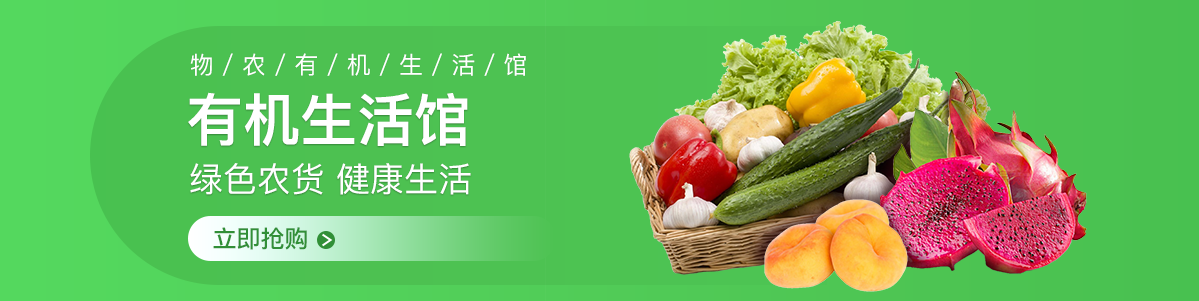
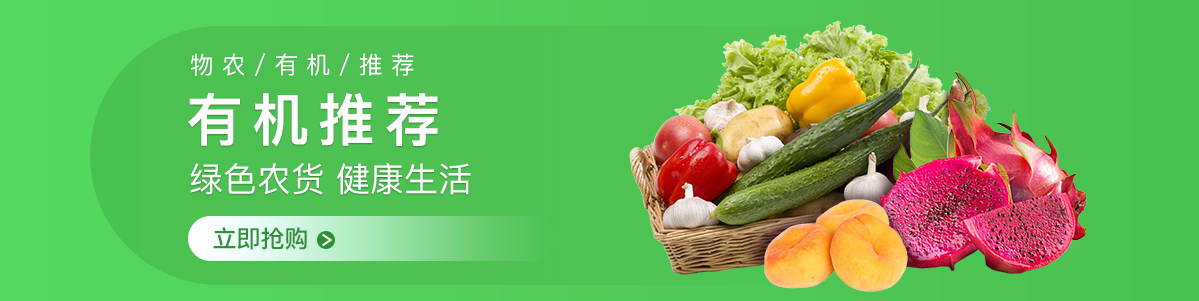
物农官网

Changed region(s): [[0.1852, 0.299, 0.4012, 0.5083], [0.1852, 0.1794, 0.4629, 0.2691]]

diff --git a/base.html b/base.html
@@ -55,10 +55,11 @@
 
         <div class="content">
             <div class="content-header">
-                <p>物农小目标（2019-2020）</p>
-                <p>全国各地，配套种植养殖基地超过<span>10000</span>亩</p>
+                <!-- <p>物农未来目标（2019-2020）</p> -->
+                <p></p>
+                <p>2019年,物农网在全国各地配套种植养殖基地超过<span>20000</span>亩</p>
 
-                <p>(已有<span>1000+</span>亩)</p>
+                <!-- <p>(已有<span>1000+</span>亩)</p> -->
             </div>
 
             <div class="content-con">
@@ -66,25 +67,34 @@
                     <img src="img/8_4.png" alt="">
                 </div>
 
+
                 <div class="content-con-con">
                     <div class="content-con-con-item">
                         <img src="img/8_5.png" alt="">
-                    </div>
-                    <div class="content-con-con-item">
-                        <img src="img/8_6.png" alt="">
-                    </div>
-                    <div class="content-con-con-item">
-                        <img src="img/8_7.png" alt="">
-                    </div>
-                    <div class="content-con-con-item">
-                        <img src="img/8_8.png" alt="">
+                        <p>物农认种</p>
+                        <p>火山岩大米种植基地</p>
                     </div>
 
                     <div class="content-con-con-item">
-                        <img src="img/8_10.png" alt="">
+                        <img src="img/8_11.png" alt="">
+                        <p>物农认种</p>
+                        <p>洋县黑米基地</p>
                     </div>
                     <div class="content-con-con-item">
-                        <img src="img/8_11.png" alt="">
+                        <img src="img/8_7.png" alt="">
+                        <p>物农认种</p>
+                        
+                        <p>山东金葵花种植合作基地</p>
+                    </div>
+                    <div class="content-con-con-item">
+                        <img src="img/8_10.png" alt="">
+                        <p>物农认种</p>
+                        <p>米脂有机小米基地</p>
+                    </div>
+                    <div class="content-con-con-item">
+                        <img src="img/8_8.png" alt="">
+                        <p>物农认养</p>
+                        <p>甘肃通渭县土鸡合作基地</p>
                     </div>
                 </div>
             </div>
@@ -115,7 +125,7 @@
                     <div class="footer-con-lxwm-con">
                         <div class="footer-con-lxwm-con-left">地&nbsp;&nbsp;&nbsp;&nbsp;&nbsp;&nbsp;&nbsp;址</div>
                         <div class="footer-con-lxwm-con-right">
-                            深圳市宝安区航程街道后瑞第二工业区南区 智创矩阵双创园第12栋第4楼B401
+                            深圳市宝安区航城街道后瑞社区后瑞第二工业区12栋B401
                         </div>
                     </div>
 

diff --git a/enbase.html b/enbase.html
@@ -13,6 +13,8 @@
     <link rel="icon" href="imgen/favicon.png" type="image/x-icon">
     <link rel="stylesheet" href="css/enbase.css">
 
+
+    <script src="js/lib/jquery-2.2.2.min.js"></script>
 </head>
 
 <body>
@@ -57,10 +59,12 @@
 
         <div class="content">
             <div class="content-header">
-                <p>Wunong Small Goals(2019-2020)</p>
-                <p>All over the country, </p>
-                <p>supporting cultivation and breeding bases exceed <span>10,000</span> Mu</p>
-                <p>( <span>1000+</span> mu already )</p>
+                <!-- <p>Wunong Small Goals(2019-2020)</p>
+                <p>All over the country, </p> -->
+                <p></p>
+                <p>2019,Wunong has more than <span>20,000</span> Mu</p> acres of supporting planting bases across the
+                country.
+                <!-- <p>( <span>1000+</span> mu already )</p> -->
             </div>
 
             <div class="content-con">
@@ -71,23 +75,25 @@
                 <div class="content-con-con">
                     <div class="content-con-con-item">
                         <img src="img/8_5.png" alt="">
+                        <p>Wunong Claim planting Volcanic rock rice planting base</p>
                     </div>
+
                     <div class="content-con-con-item">
-                        <img src="img/8_6.png" alt="">
+                        <img src="img/8_11.png" alt="">
+                        <p>Wunong Claim planting Yangxian Black Rice Base</p>
+                        
                     </div>
                     <div class="content-con-con-item">
                         <img src="img/8_7.png" alt="">
+                        <p>Wunong Claim planting Shandong Golden Sunflower Planting Cooperation Base</p>
+                    </div>
+                    <div class="content-con-con-item">
+                        <img src="img/8_10.png" alt="">
+                        <p>Wunong Claim Rice fat organic millet base</p>
                     </div>
                     <div class="content-con-con-item">
                         <img src="img/8_8.png" alt="">
-                    </div>
-
-
-                    <div class="content-con-con-item">
-                        <img src="img/8_10.png" alt="">
-                    </div>
-                    <div class="content-con-con-item">
-                        <img src="img/8_11.png" alt="">
+                        <p>Wunong Claim Aquaculture Gansu Tongyu County Chicken Cooperative Base</p>
                     </div>
                 </div>
             </div>
@@ -160,6 +166,16 @@
         </div>
 
     </div>
+
+    <script>
+        $('.content-con-con-item p').each(function (i, item) {
+            var newstr;
+            if ($(item).html().length > 40) {
+                newstr = $(item).html().substr(0, 40);
+                $(item).html(newstr + '...');
+            }
+        })
+    </script>
 
 </body>
 

diff --git a/aboutus.html b/aboutus.html
@@ -87,7 +87,7 @@
                                     <li><span>●</span>知名文化经纪人</li>
                                     <li><span>●</span>哈尔滨国际啤酒节创始人、疯狂英语营销策划人</li>
                                     <li><span>●</span>微软Windows2000\Office 2000中国市场策划人</li>
-                                    <li><span>●</span>现任物农科技（深圳）有限公司董事长</li>
+                                    <li><span>●</span>现任职物农科技（深圳）有限公司董事长</li>
                                 </ul>
                             </div>
                         </div>
@@ -110,7 +110,7 @@
                                     <li><span>●</span>退伍军人</li>
                                     <li><span>●</span>2000年—2011年西安仁志物资贸易公司总经理</li>
                                     <li><span>●</span>2013年—2016年南宁柱虎房产公司总经理</li>
-                                    <li><span>●</span>2017年—至今，任职物农网金融总裁</li>
+                                    <li><span>●</span>2017年—至今，任职物农科技（深圳）有限公司市场总裁</li>
                                 </ul>
                             </div>
                         </div>
@@ -153,7 +153,7 @@
                                     <li><span>●</span>毕业于陕西师范大学中文系</li>
                                     <li><span>●</span>曾任大学中文系古典文学讲师</li>
                                     <li><span>●</span>有15年的市场营销、团队建设和教育培训经验</li>
-                                    <li><span>●</span>2017年加入物农网，任职市场总裁</li>
+                                    <li><span>●</span>2017年—至今，任职物农科技（深圳）有限公司市场总裁</li>
                                 </ul>
                             </div>
                         </div>
@@ -324,7 +324,7 @@
                     <div class="footer-con-lxwm-con">
                         <div class="footer-con-lxwm-con-left">地&nbsp;&nbsp;&nbsp;&nbsp;&nbsp;&nbsp;&nbsp;址</div>
                         <div class="footer-con-lxwm-con-right">
-                            深圳市宝安区航程街道后瑞第二工业区南区 智创矩阵双创园第12栋第4楼B401
+                            深圳市宝安区航城街道后瑞社区后瑞第二工业区12栋B401
                         </div>
                     </div>
 

diff --git a/canteen.html b/canteen.html
@@ -48,10 +48,16 @@
 
         <div class="content">
             <div class="content-header">
-                <p>物农小目标（2019-2020）</p>
+                <!-- <p>物农未来目标（2019-2020）</p>
                 <p>物农食堂落地超过<span>1000</span>家&nbsp;&nbsp; 覆盖社区超过<span>10000</span>个</p>
 
-                <p>(已有<span>30</span>家食堂)</p>
+                <p>(已有<span>30</span>家食堂)</p> -->
+
+                    <p></p>
+                <p>未来目标，落地超过<span>1000</span>家，</p>
+
+                <p>覆盖社区超过<span>10000</span>个，现已有<span>30</span>家食堂。</p>
+
             </div>
 
             <div class="content-con">
@@ -98,7 +104,7 @@
                     <div class="footer-con-lxwm-con">
                         <div class="footer-con-lxwm-con-left">地&nbsp;&nbsp;&nbsp;&nbsp;&nbsp;&nbsp;&nbsp;址</div>
                         <div class="footer-con-lxwm-con-right">
-                            深圳市宝安区航程街道后瑞第二工业区南区 智创矩阵双创园第12栋第4楼B401
+                            深圳市宝安区航城街道后瑞社区后瑞第二工业区12栋B401
                         </div>
                     </div>
 

diff --git a/encanteen.html b/encanteen.html
@@ -51,10 +51,16 @@
         <div class="contenta">
             <div class="content">
                 <div class="content-header">
-                    <p>Wunong Small Goals(2019-2020) </p>
+                        
+                    <p></p>
+                    <p>The future goal is to land more than <span>1,000</span>,</p>
+                    <p>covering more than <span>10,000</span> communities, and now has <span>30</span>canteens.</p>
+                    
+                         
+                    <!-- <p>wunong Future goal(2019-2020) </p>
                     <p>Wunong More than <span>1000</span> Catering have landedCovering </p>
                     <p>more than <span>10,000</span> communities </p>
-                    <p>( <span>30</span> Catering already )</p>
+                    <p>( <span>30</span> Catering already )</p> -->
                 </div>
 
                 <div class="content-con">

diff --git a/organicliving.html b/organicliving.html
@@ -51,7 +51,7 @@
 
         <div class=content>
             <div class="content-text">
-                <a href="index.html"> 首页</a>><span>有机生活馆</span>
+                <a href="index.html"> 首页</a>><span>有机推荐</span>
             </div>
 
             <div class="content-nav">
@@ -93,7 +93,7 @@
                     <div class="footer-con-lxwm-con">
                         <div class="footer-con-lxwm-con-left">地&nbsp;&nbsp;&nbsp;&nbsp;&nbsp;&nbsp;&nbsp;址</div>
                         <div class="footer-con-lxwm-con-right">
-                            深圳市宝安区航程街道后瑞第二工业区南区 智创矩阵双创园第12栋第4楼B401
+                            深圳市宝安区航城街道后瑞社区后瑞第二工业区12栋B401
                         </div>
                     </div>
 

diff --git a/newproduct.html b/newproduct.html
@@ -51,7 +51,7 @@
 
         <div class=content>
             <div class="content-text">
-                <a href="index.html"> 首页</a>><span>新品首发</span>
+                <a href="index.html"> 首页</a>><span>品质好物</span>
             </div>
 
             <div class="content-nav">
@@ -93,7 +93,7 @@
                     <div class="footer-con-lxwm-con">
                         <div class="footer-con-lxwm-con-left">地&nbsp;&nbsp;&nbsp;&nbsp;&nbsp;&nbsp;&nbsp;址</div>
                         <div class="footer-con-lxwm-con-right">
-                            深圳市宝安区航程街道后瑞第二工业区南区 智创矩阵双创园第12栋第4楼B401
+                            深圳市宝安区航城街道后瑞社区后瑞第二工业区12栋B401
                         </div>
                     </div>
 

diff --git a/index.html b/index.html
@@ -172,7 +172,7 @@
                     <div class=" footer-con-lxwm-con">
                         <div class="footer-con-lxwm-con-left">地&nbsp;&nbsp;&nbsp;&nbsp;&nbsp;&nbsp;&nbsp;址</div>
                         <div class="footer-con-lxwm-con-right">
-                            深圳市宝安区航程街道后瑞第二工业区南区 智创矩阵双创园第12栋第4楼B401
+                            深圳市宝安区航城街道后瑞社区后瑞第二工业区12栋B401
                         </div>
                     </div>
                 </div>

diff --git a/adoption.html b/adoption.html
@@ -105,7 +105,7 @@
                     <div class="footer-con-lxwm-con">
                         <div class="footer-con-lxwm-con-left">地&nbsp;&nbsp;&nbsp;&nbsp;&nbsp;&nbsp;&nbsp;址</div>
                         <div class="footer-con-lxwm-con-right">
-                            深圳市宝安区航程街道后瑞第二工业区南区 智创矩阵双创园第12栋第4楼B401
+                            深圳市宝安区航城街道后瑞社区后瑞第二工业区12栋B401
                         </div>
                     </div>
 

diff --git a/homeDepot.html b/homeDepot.html
@@ -183,7 +183,7 @@
                     <div class="footer-con-lxwm-con">
                         <div class="footer-con-lxwm-con-left">地&nbsp;&nbsp;&nbsp;&nbsp;&nbsp;&nbsp;&nbsp;址</div>
                         <div class="footer-con-lxwm-con-right">
-                            深圳市宝安区航程街道后瑞第二工业区南区 智创矩阵双创园第12栋第4楼B401
+                            深圳市宝安区航城街道后瑞社区后瑞第二工业区12栋B401
                         </div>
                     </div>
 

diff --git a/renzhong.html b/renzhong.html
@@ -105,7 +105,7 @@
                     <div class="footer-con-lxwm-con">
                         <div class="footer-con-lxwm-con-left">地&nbsp;&nbsp;&nbsp;&nbsp;&nbsp;&nbsp;&nbsp;址</div>
                         <div class="footer-con-lxwm-con-right">
-                            深圳市宝安区航程街道后瑞第二工业区南区 智创矩阵双创园第12栋第4楼B401
+                            深圳市宝安区航城街道后瑞社区后瑞第二工业区12栋B401
                         </div>
                     </div>
 

diff --git a/Bigcarddrive.html b/Bigcarddrive.html
@@ -93,7 +93,7 @@
                     <div class="footer-con-lxwm-con">
                         <div class="footer-con-lxwm-con-left">地&nbsp;&nbsp;&nbsp;&nbsp;&nbsp;&nbsp;&nbsp;址</div>
                         <div class="footer-con-lxwm-con-right">
-                            深圳市宝安区航程街道后瑞第二工业区南区 智创矩阵双创园第12栋第4楼B401
+                            深圳市宝安区航城街道后瑞社区后瑞第二工业区12栋B401
                         </div>
                     </div>
 
